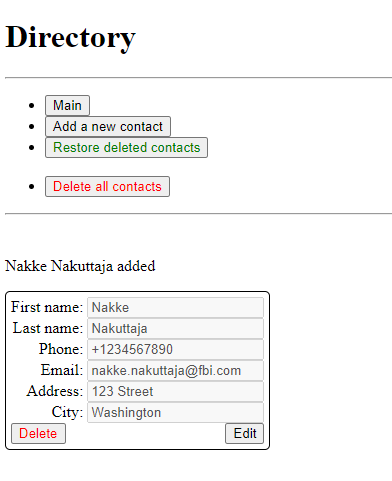
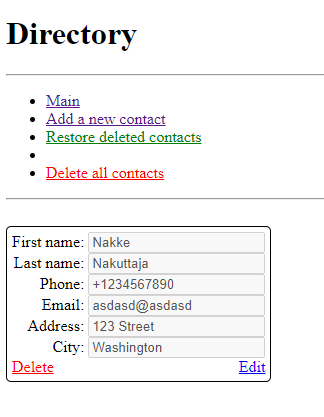
Fixes for valid html5

diff --git a/pw4-flask-directory/templates/base.html b/pw4-flask-directory/templates/base.html
@@ -10,11 +10,11 @@
     <hr>
     <nav>
         <ul>
-        <li><a href="/"><button type="button">Main</button></a></li>
-        <li><a href="/add"><button type="button">Add a new contact</button></a></li>
-        <li><a href="/recover"><button type="button" style="color: green;">Restore deleted contacts</button></a></li>
-        <br>
-        <li><a href="/delete_all"><button type="button" style="color: red;">Delete all contacts</button></a></li>
+        <li><a href="/">Main</a></li>
+        <li><a href="/add">Add a new contact</a></li>
+        <li><a href="/recover" style="color: green;">Restore deleted contacts</a></li>
+        <li></li>
+        <li><a href="/delete_all" style="color: red;">Delete all contacts</a></li>
         </ul>
     </nav>
     <hr><br>

diff --git a/pw4-flask-directory/templates/index.html b/pw4-flask-directory/templates/index.html
@@ -9,8 +9,8 @@
     <label>Email: </label><input type="text" value="{{ person.email }}" disabled><br>
     <label>Address: </label><input type="text" value="{{ person.address }}" disabled><br>
     <label>City: </label><input type="text" value="{{ person.city }}" disabled><br>
-    <a href="/{{ person.id }}/delete"><button type="button" style="color: red; float: left">Delete</button></a>
-    <a href="/{{ person.id }}/edit"><button type="button">Edit</button></a>
+    <a href="/{{ person.id }}/delete" style="color: red; float: left">Delete</a>
+    <a href="/{{ person.id }}/edit">Edit</a>
 </div><br>
 {% endfor %}
 {% endblock content %}

diff --git a/pw4-flask-directory/README.md b/pw4-flask-directory/README.md
@@ -1,7 +1,7 @@
 # Assignment PW4, simple contact directory
 
 This app is a simple contact directory with ability to add, edit, delete and restore deleted contacts.  
-The app works by using the buttons on the top menu, as well as using the buttons on the contact cards.  
+The app works by using the links on the top menu, as well as using the links on the contact cards.  
 Contact delete is done by setting the contact value "deleted" to current timestamp. Restore is done by deleting said timestamp.
 
 
